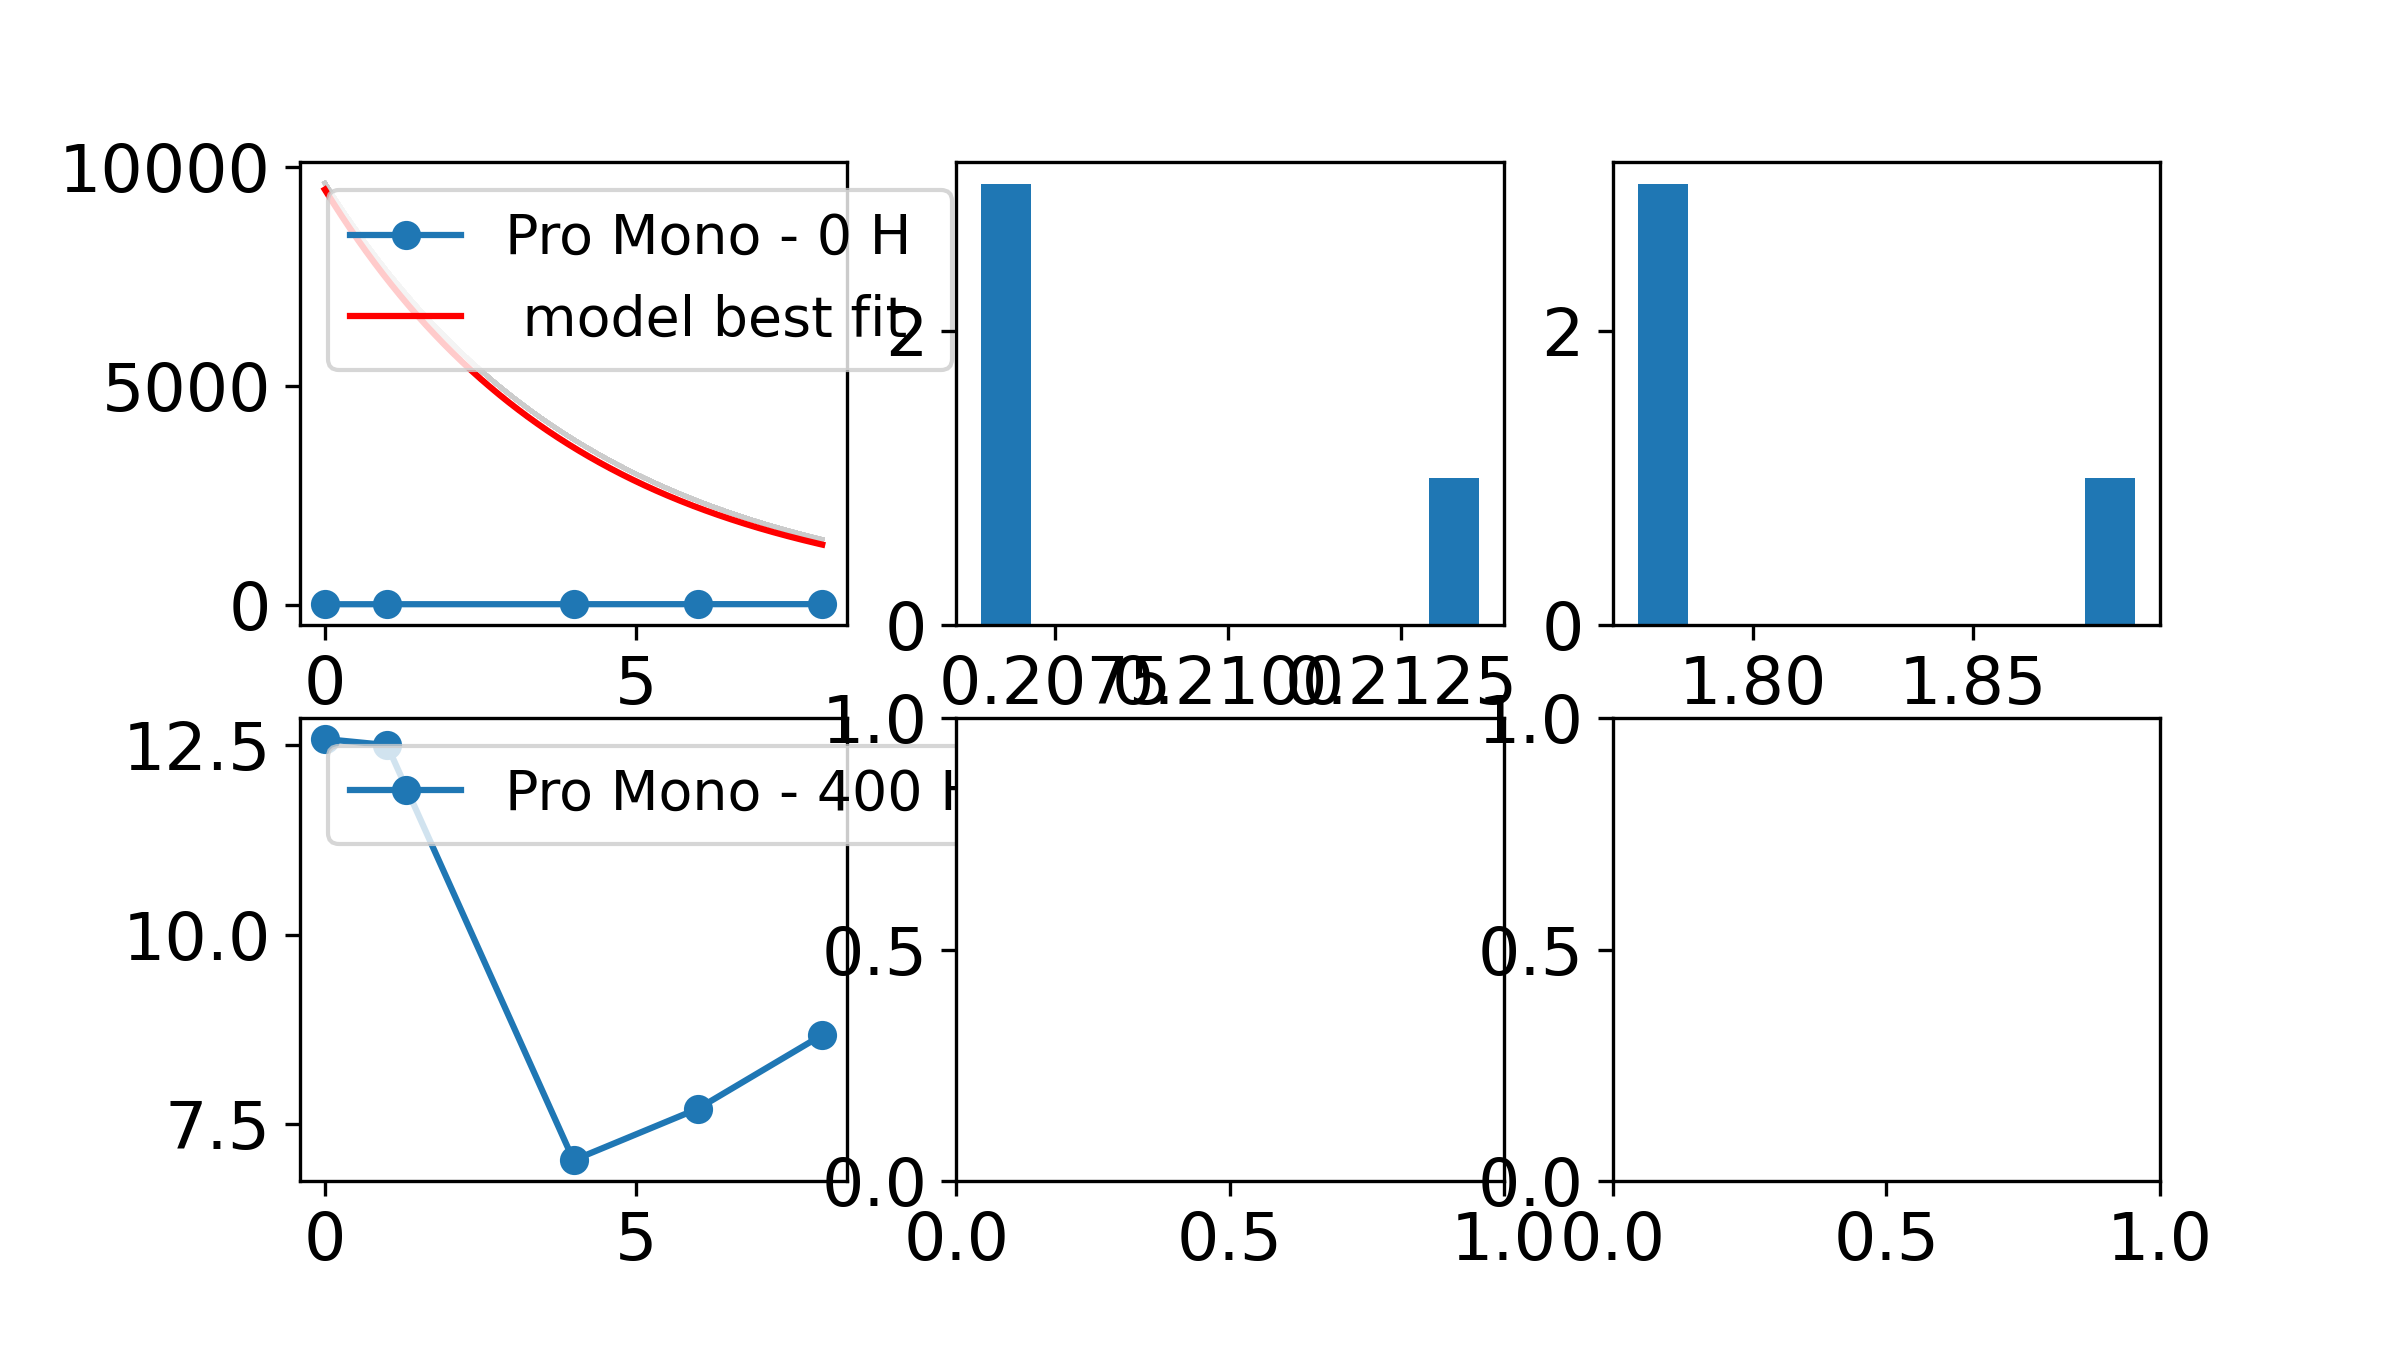
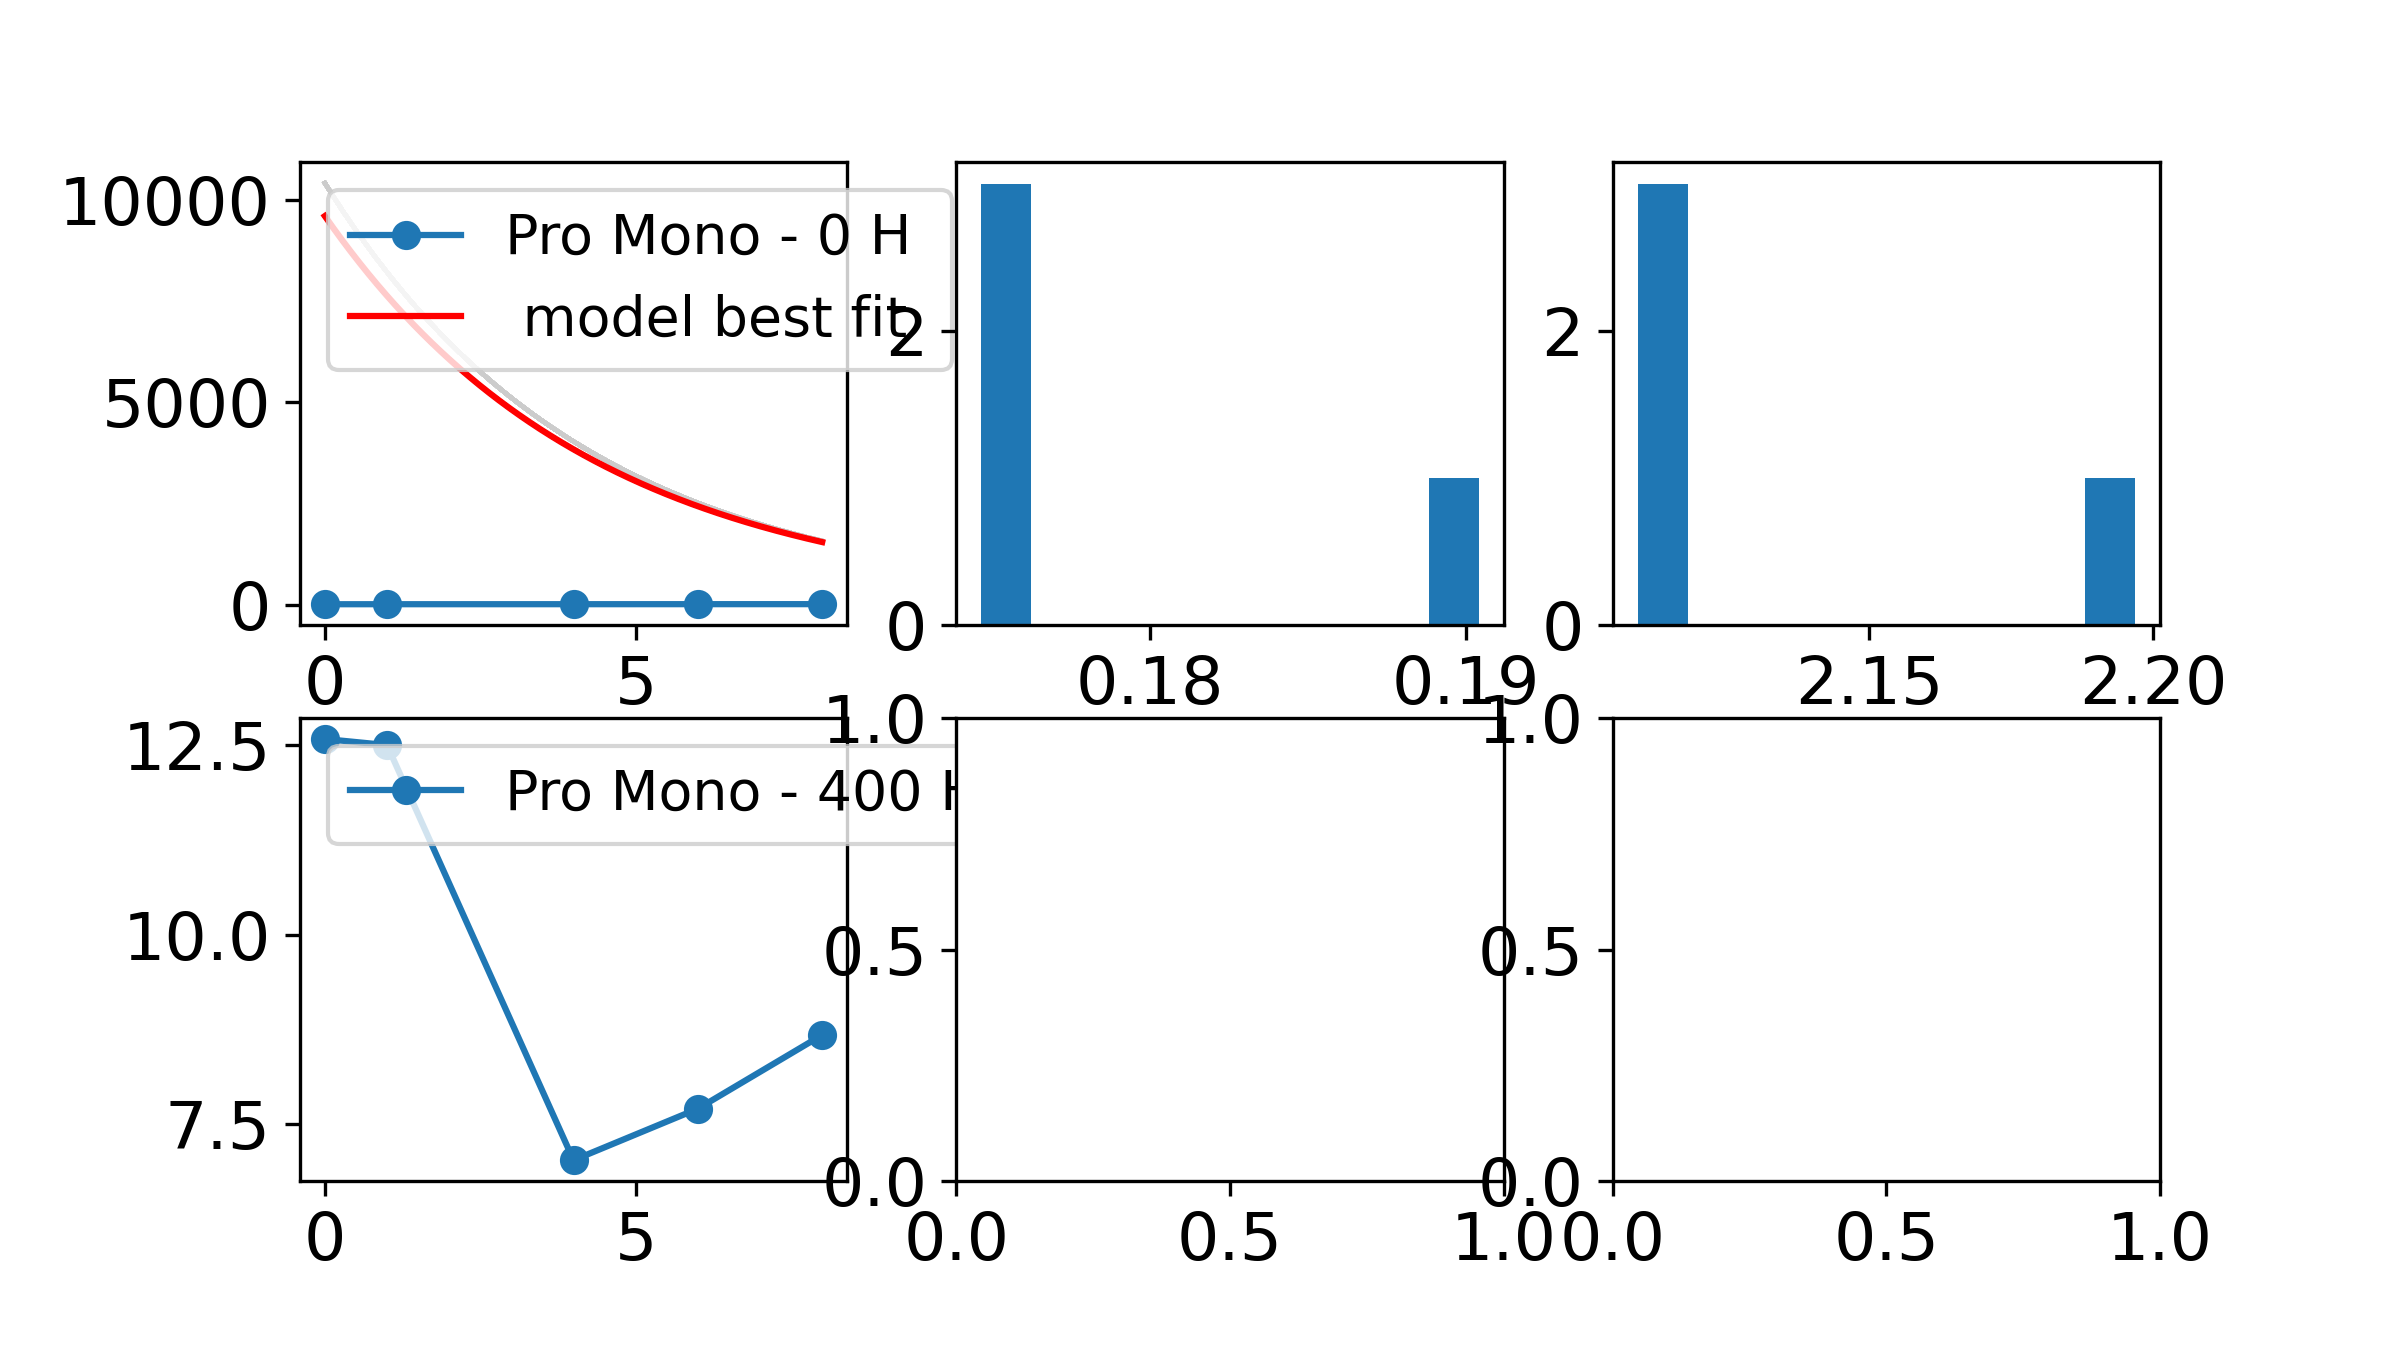
pro model finess

diff --git a/src/model_pro_batch_Htest.py b/src/model_pro_batch_Htest.py
@@ -22,6 +22,7 @@ df_mono = df_all.loc[~df_all['assay'].str.contains('coculture', case=False)].cop
 
 
 df_P = df_mono.loc[df_mono['organism'].str.contains('P', case=False)].copy() 
+df_HP = df_mono.loc[df_mono['organism'].str.contains('H', case=False) & df_mono['assay'].str.contains('H', case=False)].copy() 
 df_S = df_mono.loc[df_mono['organism'].str.contains('S', case=False)].copy() 
 
 
@@ -31,81 +32,55 @@ plt.rcParams["figure.dpi"] = 300
 plt.rcParams.update({'font.size': 16})
 plt.rcParams['legend.fontsize'] = 'small'
 
-strains = df_mono['strain'].unique()
-nstrains = strains.shape[0]
-colors = ('orange', 'r', 'green', 'c', 'purple', 'k')
-#need to slice by Vol number !!! (2 cat + Syns)
-fig1, (ax0,ax1)= plt.subplots(1,2,figsize = (16,9))
-fig1.suptitle('Pro and Syn Monocultures')
 
-for (S,si) in zip(strains,range(nstrains)):   
-    count = si
-    df = df_mono[((df_mono['strain']==S))].copy()
-    df['log1'] = np.log(df['rep1'])
-    df['log2'] = np.log(df['rep2'])
-    df['log3'] = np.log(df['rep3'])
-    df['log4'] = np.log(df['rep4'])
-    df['avg1'] = df[['log1', 'log3']].mean(axis=1)
-    df['avg2'] = df[['log2', 'log4']].mean(axis=1)
-    df['std1'] = df[['log1', 'log3']].std(axis=1)
-    df['std2'] = df[['log2', 'log4']].std(axis=1)
-    df0 = df[((df['assay']=='plus_0'))].copy()
-    df400 = df[((df['assay']=='plus_400'))].copy()
-    ax0.errorbar(df0['time'],df0['avg1'],yerr=df0['std1'], marker='o',color = colors[count], label = str(S)+' avg 1')
-    ax0.errorbar(df0['time'],df0['avg2'],yerr=df0['std2'], marker='v',color = colors[count], label = str(S)+' avg 2')
-    ax1.errorbar(df400['time'],df400['avg1'], yerr=df400['std1'],marker='o', color = colors[count], label = str(S)+' avg 1')
-    ax1.errorbar(df400['time'],df400['avg2'], yerr=df400['std2'],marker='v', color = colors[count], label = str(S)+' avg 2')
-    ax1.set_ylim(6.5,15)
-    ax0.set_ylim(6.5,15)
-    l1  = ax0.legend(loc = 'lower left')
-    l1.draw_frame(False)
-    
-# make space on the right for annotation (e.g. ROS=0, etc.)
-fig1.subplots_adjust(right=0.85, wspace = 0.20, hspace = 0.25)
 
-# titles and labels 
-ax0.set_title('Monocultures in 0 HOOH')
-ax1.set_title('Monocultures in 400 HOOH')
+#setting working df
+df = df_P
 
+#making avg columns of technical reps (std hereo nly for graphing, not logged here)
+df['avg1'] = df[['rep1', 'rep2']].mean(axis=1)
+df['avg2'] = df[['rep3', 'rep4']].mean(axis=1)
+df['std1'] = df[['rep1', 'rep2']].std(axis=1)
+df['std2'] = df[['rep3', 'rep4']].std(axis=1)
+
+
+df.rename(columns = {'avg1':'abundance'}, inplace = True)
+
+
+df0 = df.loc[~ df['assay'].str.contains('4', case=False)] 
+df4 = df.loc[df['assay'].str.contains('4', case=False)] 
+
+
+fig2, (ax0,ax1)= plt.subplots(1,2,figsize = (10,6))
+fig2.suptitle('Pro  Monocultures')
+
+ax0.errorbar(df0['time'],df0['abundance'],yerr=df0['std1'], marker='o', label = 'avg1')
+ax0.errorbar(df0['time'],df0['avg2'],yerr=df0['std2'], marker='v', label = 'avg2')
+ax0.set_title('Pro in 0 HOOH ')
+ax0.semilogy()
+ax1.errorbar(df4['time'],df4['abundance'],yerr=df4['std1'], marker='o', label = 'avg1')
+ax1.errorbar(df4['time'],df4['avg2'],yerr=df4['std2'], marker='v', label = 'avg2')
+ax1.set_title('Pro in 400 HOOH ')
+ax1.semilogy()
 ax0.set_xlabel('Time (days)')
+ax0.set_ylabel('Cells(ml$^{-1}$)')
 ax1.set_xlabel('Time (days)')
-ax0.set_ylabel('log(Cells(ml$^{-1}$))')
-ax1.set_ylabel('log(Cells(ml$^{-1}$))')
-
-#fig1.savefig('../figures/mono_all_graphed')
-
 
 
 #########
 # modeling abiotic for SH and deltaH and H0 info
 #########
 
-df = df_P
-#df['log_abundance'] = np.log(df['raw_abundance'])
-#df['log_sigma'] = np.std(df['HOOH_stdv'])
-
-df['log1'] = np.log(df['rep1'])
-df['log2'] = np.log(df['rep2'])
-df['log3'] = np.log(df['rep3'])
-df['log4'] = np.log(df['rep4'])
-df['avg1'] = df[['log1', 'log3']].mean(axis=1)
-df['avg2'] = df[['log2', 'log4']].mean(axis=1)
-df['std1'] = df[['log1', 'log3']].std(axis=1)
-df['std2'] = df[['log2', 'log4']].std(axis=1)
-
-df = df.rename(columns={"avg1": "abundance"})
-
-df0 = df.loc[~ df['assay'].str.contains('4', case=False)] 
-df4 = df.loc[df['assay'].str.contains('4', case=False)] 
 
 inits0 = pd.read_csv("../data/inits/pro9215_inits0.csv")
-inits0 = pd.read_csv("../data/inits/pro9215_inits4.csv")
+
 
 # state variable names
-snames = ['H','P','N']
+snames = ['P','N','H']
 
 # define priors
 pw = 1
+
 Qnp = int((9.4e-15*(1/(14.0))*1e+9))  #Nitrogen Quota for Pro from Bertilison 
 
 Qnp_prior = ODElib.parameter(stats_gen=scipy.stats.lognorm,hyperparameters={'s':pw,'scale':0.2})
@@ -116,19 +91,18 @@ rho_prior=ODElib.parameter(stats_gen=scipy.stats.lognorm,hyperparameters={'s':pw
 SN_prior=ODElib.parameter(stats_gen=scipy.stats.lognorm, hyperparameters={'s':pw,'scale':6})
 deltah_prior=ODElib.parameter(stats_gen=scipy.stats.lognorm,hyperparameters={'s':pw,'scale':0.2})
 Sh_prior=ODElib.parameter(stats_gen=scipy.stats.lognorm, hyperparameters={'s':pw,'scale':6})
-
-
+P0_prior=ODElib.parameter(stats_gen=scipy.stats.lognorm, hyperparameters={'s':pw,'scale':1e+6})
 N0_prior=ODElib.parameter(stats_gen=scipy.stats.lognorm, hyperparameters={'s':pw,'scale':1e+5})
-P0_prior=ODElib.parameter(stats_gen=scipy.stats.lognorm, hyperparameters={'s':pw,'scale':1e+5})
 H0_prior=ODElib.parameter(stats_gen=scipy.stats.lognorm, hyperparameters={'s':pw,'scale':1e+5})
 
 
 
-nits = 10 # nits - INCREASE FOR MORE BELL CURVEY LOOKING HISTS
+nits = 1000 # nits - INCREASE FOR MORE BELL CURVEY LOOKING HISTS
 
-N0_mean = 500
-P0_mean = df.loc[df['time'] == 0, 'abundance'].iloc[0]
-H0_mean = 400
+P0_mean = 100000
+N0_mean = 50000
+
+H0_mean = 80
 
 
 
@@ -213,7 +187,7 @@ a1 = get_model(df0)
 
 
 # do fitting
-posteriors1 = a1.MCMC(chain_inits=inits0,iterations_per_chain=nits,cpu_cores=1)
+posteriors1 = a1.MCMC(chain_inits=inits0,iterations_per_chain=nits,cpu_cores=1,static_parameters=set(['Qnp']))
 #posteriors4 = a4.MCMC(chain_inits=chain_inits,iterations_per_chain=nits,cpu_cores=1)
 
 # set best params
@@ -227,35 +201,78 @@ mod0 = a1.integrate()
 
 
 
-#########################################################
-# modeling
-#########################################################
-
-# pro model graph
-fig4,ax4 = plt.subplots(2,3,figsize=[8,4.5])
-ax4[0,0].plot(df0.time,df0.abundance, marker='o',label = 'Pro Mono - 0 H ')
-ax4[0,0].plot(mod0.time,mod0['P'],c='r',lw=1.5,label=' model best fit')
-plot_uncertainty(ax4[0,0],a1,posteriors1,100)
-ax4[1,0].plot(df4.time,df4.abundance, marker='o',label = 'Pro Mono - 400 H ')
-#ax4[1,0].plot(mod4.time,mod4['H'],c='r',lw=1.5,label=' model best fit')
-#plot_uncertainty(ax4[1,0],a4,posteriors1,100)
-
-ax4[0,0].legend(loc = 'upper left')
-ax4[1,0].legend(loc = 'upper left')
 
 
+fig3, (ax0,ax1)= plt.subplots(1,2,figsize = (10,6))
+fig3.suptitle('Pro in 0 H Model')
 
-# plot histograms
-ax4[0,1].hist(posteriors1.dp)
-ax4[0,2].hist(posteriors1.k1)
-#ax4[1,1].hist(posteriors4.Sh)
-#ax4[1,2].hist(posteriors4.deltah)
+ax0.errorbar(df0['time'],df0['abundance'],yerr=df0['std1'], marker='o', label = 'avg1')
+ax0.errorbar(df0['time'],df0['avg2'],yerr=df0['std2'], marker='o', label = 'avg2')
 
+ax0.plot(mod0.time,mod0['P'],c='r',lw=1.5,label=' model best fit')
+plot_uncertainty(ax0,a1,posteriors1,100)
+ax0.semilogy()
+ax0.set_title('Pro dynamics ')
+l3 = ax0.legend(loc = 'upper left')
+l3.draw_frame(False)
+
+ax1.scatter(posteriors1.iteration, posteriors1.rsquared)
+ax1.set_title('Model error ')
+
+fig3.subplots_adjust(right=0.85, wspace = 0.25, hspace = 0.30)
+
+ax0.set_xlabel('days')
+ax0.set_ylabel('cell concentration')
+ax1.set_ylabel('iteration number')
+ax1.set_xlabel('r squared ')
 
 plt.show()
 
 
-fig4.savefig('../figures/pro_odelib')
+#########################################################
+#graphing model and params 
+#########################################################
+
+# pro model graph
+fig4,ax4 = plt.subplots(1,7,figsize=[20,7])
+fig4.suptitle('Monoculture parameters in 0 HOOH ')
+ax4[0].plot(df0.time,df0.abundance, marker='o',label = 'Pro Mono - 0 H ')
+ax4[0].plot(mod0.time,mod0['P'],c='r',lw=1.5,label=' model best fit')
+plot_uncertainty(ax4[0],a1,posteriors1,100)
+
+l4 = ax4[0].legend(loc = 'upper left')
+l4.draw_frame(False)
+
+# plot histograms
+ax4[1].hist(posteriors1.dp)
+ax4[2].hist(posteriors1.k1)
+ax4[3].hist(posteriors1.P0)
+ax4[4].hist(posteriors1.rho)
+ax4[5].hist(posteriors1.Sh)
+ax4[6].hist(posteriors1.deltah)
+
+
+ax4[1].set_title('dp')
+ax4[2].set_title('k1')
+ax4[3].set_title('P0')
+ax4[4].set_title('rho')
+ax4[5].set_title('Sh')
+ax4[6].set_title('deltah')
+
+
+ax4[3].set_xlabel('Frequency')
+
+
+fig4.subplots_adjust(right=0.90, wspace = 0.25, hspace = 0.30)
+
+plt.show()
+
+
+#fig4.savefig('../figures/pro_odelib0')
+
+
+print("I'm done bro")
+
 
 
 

diff --git a/src/model_pro_batch.py b/src/model_pro_batch.py
@@ -77,24 +77,24 @@ pw = 1
 
 Qnp = int((9.4e-15*(1/(14.0))*1e+9))  #Nitrogen Quota for Pro from Bertilison 
 
-Qnp_prior = ODElib.parameter(stats_gen=scipy.stats.lognorm,hyperparameters={'s':pw,'scale':0.2})
-k1_prior=ODElib.parameter(stats_gen=scipy.stats.lognorm,hyperparameters={'s':pw,'scale':0.2})
-k2_prior=ODElib.parameter(stats_gen=scipy.stats.lognorm,hyperparameters={'s':pw,'scale':0.2})
-dp_prior=ODElib.parameter(stats_gen=scipy.stats.lognorm,hyperparameters={'s':pw,'scale':0.2})
+Qnp_prior = ODElib.parameter(stats_gen=scipy.stats.lognorm,hyperparameters={'s':pw,'scale':0.0000020})
+k1_prior=ODElib.parameter(stats_gen=scipy.stats.lognorm,hyperparameters={'s':pw,'scale':0.0000002})
+k2_prior=ODElib.parameter(stats_gen=scipy.stats.lognorm,hyperparameters={'s':pw,'scale':0.02})
+dp_prior=ODElib.parameter(stats_gen=scipy.stats.lognorm,hyperparameters={'s':pw,'scale':0.002})
 rho_prior=ODElib.parameter(stats_gen=scipy.stats.lognorm,hyperparameters={'s':pw,'scale':0.2})
-SN_prior=ODElib.parameter(stats_gen=scipy.stats.lognorm, hyperparameters={'s':pw,'scale':6})
-deltah_prior=ODElib.parameter(stats_gen=scipy.stats.lognorm,hyperparameters={'s':pw,'scale':0.2})
-Sh_prior=ODElib.parameter(stats_gen=scipy.stats.lognorm, hyperparameters={'s':pw,'scale':6})
+SN_prior=ODElib.parameter(stats_gen=scipy.stats.lognorm, hyperparameters={'s':pw,'scale':4})
+deltah_prior=ODElib.parameter(stats_gen=scipy.stats.lognorm,hyperparameters={'s':pw,'scale':0.02})
+Sh_prior=ODElib.parameter(stats_gen=scipy.stats.lognorm, hyperparameters={'s':pw,'scale':1})
 P0_prior=ODElib.parameter(stats_gen=scipy.stats.lognorm, hyperparameters={'s':pw,'scale':1e+6})
 N0_prior=ODElib.parameter(stats_gen=scipy.stats.lognorm, hyperparameters={'s':pw,'scale':1e+5})
 H0_prior=ODElib.parameter(stats_gen=scipy.stats.lognorm, hyperparameters={'s':pw,'scale':1e+5})
 
 
 
-nits = 100000 # nits - INCREASE FOR MORE BELL CURVEY LOOKING HISTS
+nits = 1000 # nits - INCREASE FOR MORE BELL CURVEY LOOKING HISTS
 
 P0_mean = 100000
-N0_mean = 50000
+N0_mean = 900000
 
 H0_mean = 80
 
@@ -136,7 +136,7 @@ def get_model(df):
                           P0 = P0_prior.copy(),
                           N0  = N0_prior.copy(),
                           H0  = H0_prior.copy(),
-                          t_steps=100000,
+                          t_steps=10000,
                           P = P0_mean,
                           N = N0_mean,
                           H = H0_mean,
@@ -163,7 +163,8 @@ a1 = get_model(df0)
 
 
 # do fitting
-posteriors1 = a1.MCMC(chain_inits=inits0,iterations_per_chain=nits,cpu_cores=1)
+posteriors1 = a1.MCMC(chain_inits=inits0,iterations_per_chain=nits,cpu_cores=1,static_parameters=set(['Qnp']))
+#posteriors1 = a1.MetropolisHastings(chain_inits=inits0,iterations_per_chain=nits,burnin = 500,cpu_cores=1,static_parameters=set(['Qnp']))
 
 # set best params
 set_best_params(a1,posteriors1,snames)
@@ -182,23 +183,24 @@ fig3, (ax0,ax1)= plt.subplots(1,2,figsize = (10,6))
 fig3.suptitle('Pro in 0 H Model')
 
 ax0.errorbar(df0['time'],df0['abundance'],yerr=df0['std1'], marker='o', label = 'avg1')
+ax0.errorbar(df0['time'],df0['avg2'],yerr=df0['std2'], marker='o', label = 'avg2')
 
 ax0.plot(mod0.time,mod0['P'],c='r',lw=1.5,label=' model best fit')
 plot_uncertainty(ax0,a1,posteriors1,100)
 ax0.semilogy()
 ax0.set_title('Pro dynamics ')
-l3 = ax0.legend(loc = 'upper left')
+l3 = ax0.legend(loc = 'lower right')
 l3.draw_frame(False)
 
-ax1.scatter(posteriors1.iteration, posteriors1.rsquared)
+ax1.scatter(posteriors1.iteration, posteriors1.chi)
 ax1.set_title('Model error ')
 
 fig3.subplots_adjust(right=0.85, wspace = 0.25, hspace = 0.30)
 
 ax0.set_xlabel('days')
 ax0.set_ylabel('cell concentration')
-ax1.set_ylabel('iteration number')
-ax1.set_xlabel('r squared ')
+ax1.set_ylabel('chi')
+ax1.set_xlabel('iteration number ')
 
 plt.show()
 
@@ -206,7 +208,7 @@ plt.show()
 #########################################################
 #graphing model and params 
 #########################################################
-
+'''
 # pro model graph
 fig4,ax4 = plt.subplots(1,7,figsize=[20,7])
 fig4.suptitle('Monoculture parameters in 0 HOOH ')
@@ -243,7 +245,7 @@ plt.show()
 
 
 fig4.savefig('../figures/pro_odelib0')
-
+'''
 
 print("I'm done bro")
 
